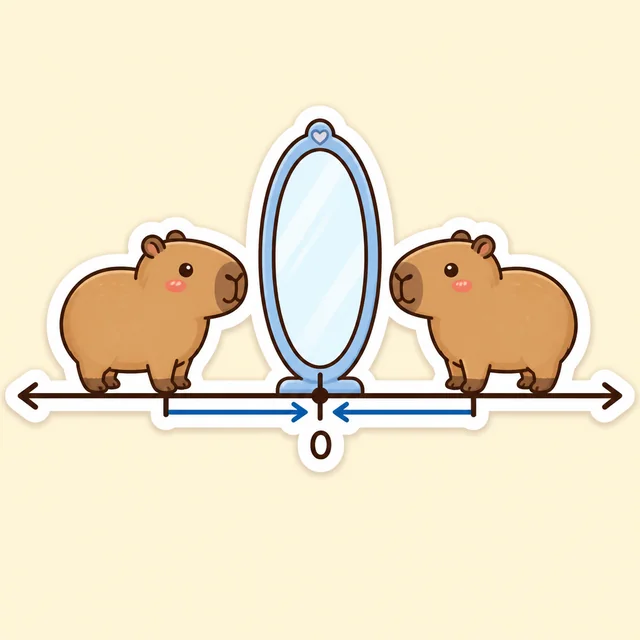
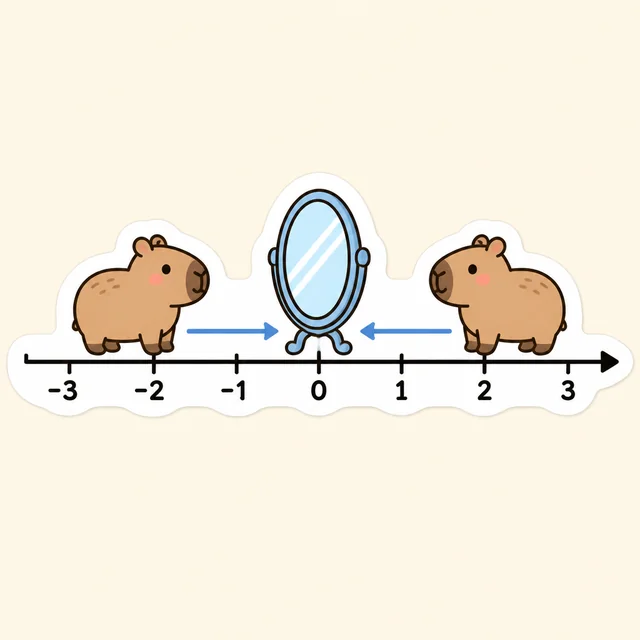
fix: 1-1-1 數線箭頭規則與 1-1-2 六張插圖依重點性質換道具
- 數線只在正向那端畫箭頭：那是「標示正向」不是「無限延伸」。
  兩節的 canvas.js 本來就寫對，錯的一直是插圖——1-1-1 重生
  capybara_opposite／capybara_summary（兩端都有箭頭）與
  capybara_distance（兩端都沒有），capybara_numberline 本來就對故未動
- 1-1-2 六張原本全是「直立溫度計疊箭頭」且無刻度，意義不明；
  temp_laws 更把要教的「交換律結果相同」畫成兩支液面不一樣高。
  根因是重點 2/4/5 本質為符號操作（本文「括號」31 次、「絕對值」30 次，
  而「溫度」19 次幾乎全在重點 3），硬畫成溫度計讀不出意義
- 改為保留漫畫決定的場景與角色、只依重點性質換道具：位置類（1/3/6）
  用水平溫度刻度條，符號類改用店裡真會發生的事——甜筒換順序疊球、
  收據整組取消翻正負號、溫差錶只顯示偏離 0 度多遠
- 畫面數字全部對照過該重點的兩題與互動卡預設，避開開發約束 29 的撞題
- 1-1-2 改用 q75：水彩紙紋屬高頻紋理，實測省 39%、色差 3.6～3.9/255，
  3 倍放大下刻度數字與 q85 無差別（上一輪誤判成平面用了 q85）
- agents.md：新增開發約束 34（數線箭頭）、擴充 33（用實心圓點錨定
  端點到刻度，空白處錨不住）、釐清 8（水彩＋動漫走 q75）、階段二十一

Changed region(s): [[0.0, 0.1875, 1.0, 0.75]]

diff --git a/materials/1-1-2/index.html b/materials/1-1-2/index.html
@@ -103,7 +103,7 @@
               </li>
             </ul>
             <div class="illustration-container">
-              <img src="temp_add.webp" alt="日式動漫插圖：冰淇淋店員手放在冷凍櫃的溫度旋鈕上，旁邊的溫度計中央有一條 0 度線、上方是紅色下方是藍色；兩支紅色向下箭頭首尾相接，從 0 度線一路降到藍色區深處，灰虎斑貓在旁邊冷得發抖" class="illustration" loading="lazy">
+              <img src="temp_add.webp" alt="日式動漫插圖：冰淇淋店牆上掛著一條水平溫度刻度條，等距標著 -8 到 6、只有右端有箭頭標示正方向；刻度上 0 是綠點、-2 是空心白點、-6 是藍點，上方兩段向左的跳躍弧線首尾相接，第一段由 0 跳到 -2、第二段由 -2 跳到 -6，第二段的跨距剛好是第一段的兩倍；店員一手扶著冷凍櫃抬頭看，灰虎斑貓坐在腳邊" class="illustration" loading="lazy">
             </div>
           </div>
 
@@ -233,7 +233,7 @@
               </li>
             </ul>
             <div class="illustration-container">
-              <img src="temp_laws.webp" alt="日式動漫插圖：兩支並排的溫度計各有一條 0 度線——左邊那支先降一大段再降一小段，右邊那支先降一小段再降一大段，兩支最後的液面停在完全相同的高度，中間畫著等號，店員比出大拇指" class="illustration" loading="lazy">
+              <img src="cone_swap.webp" alt="日式動漫插圖：木檯面上並排兩支同樣大小的甜筒，左邊那支由下往上先疊 2 球草莓再疊 3 球抹茶，右邊那支由下往上先疊 3 球抹茶再疊 2 球草莓，兩支各 5 球；一條水平虛線同時擦過兩疊的最頂端，顯示兩支一樣高，中間牆上畫著等號，店員比出大拇指" class="illustration" loading="lazy">
             </div>
           </div>
 
@@ -370,7 +370,7 @@
               </li>
             </ul>
             <div class="illustration-container">
-              <img src="temp_subtract.webp" alt="日式動漫插圖：兩支並排的溫度計，左邊那支的紅色液柱高於 0 度線、右邊那支的藍色液柱低於 0 度線，中間一條黃色捲尺垂直量出兩個溫度之間的差距，店員拿著寫字板指著捲尺" class="illustration" loading="lazy">
+              <img src="temp_subtract.webp" alt="日式動漫插圖：牆上的水平溫度刻度條等距標著 -8 到 6、只有右端有箭頭標示正方向；藍點標在原來溫度 -4、紅點標在最後溫度 2，一支橘色箭頭從藍點指向紅點、跨過三格；店員拿著寫字板指著箭頭，灰虎斑貓在旁邊抬頭看" class="illustration" loading="lazy">
             </div>
           </div>
 
@@ -510,7 +510,7 @@
               </li>
             </ul>
             <div class="illustration-container">
-              <img src="temp_bracket.webp" alt="日式動漫插圖：店員舉著一張指示卡，卡上左邊是一個減號加一組括號，括號裡第一支箭頭向上、第二支向下；等號右邊是同樣那兩支箭頭但沒有括號，方向全部相反——第一支向下、第二支向上，灰虎斑貓從卡片下緣探出頭" class="illustration" loading="lazy">
+              <img src="order_cancel.webp" alt="日式動漫插圖：店員舉著一張收據，上半部的兩筆金額 +30 與 -12 被一個方框圈在一起、方框左邊有一個大減號，並蓋上一枚紅色圓形印章表示整組取消；橫線下方同樣那兩筆再列一次，但符號全部相反成 -30 與 +12，而且沒有方框；灰虎斑貓從檯面邊緣探出頭" class="illustration" loading="lazy">
             </div>
           </div>
 
@@ -644,7 +644,7 @@
               </li>
             </ul>
             <div class="illustration-container">
-              <img src="temp_absolute.webp" alt="日式動漫插圖：牆上一支溫度計的中央有一條 0 度線，上方標著一個紅點、下方標著一個藍點，店員兩手拉著黃色捲尺，量出兩點各自到 0 度線的距離完全一樣長" class="illustration" loading="lazy">
+              <img src="gauge_absolute.webp" alt="日式動漫插圖：牆上一個圓形的冷凍櫃溫差錶，錶面刻度只有 0、2、4、6、8 五個數字、沒有任何負號，指針指在 4；錶下掛著 -4 與 +4 兩張紙牌，各拉一條線連到錶面上同一格 4，表示兩個溫度偏離 0 度一樣遠；店員指著指針，灰虎斑貓抬頭看" class="illustration" loading="lazy">
             </div>
           </div>
 
@@ -780,7 +780,7 @@
               </li>
             </ul>
             <div class="illustration-container">
-              <img src="temp_midpoint.webp" alt="日式動漫插圖：牆上的刻度條上方標著一個紅點、下方標著一個藍點，正中間一顆發光的星星標出中點；右側一條捲尺與兩個括號標出上下兩段完全一樣長，店員指著中間那顆星星" class="illustration" loading="lazy">
+              <img src="temp_midpoint.webp" alt="日式動漫插圖：牆上的水平溫度刻度條等距標著 -8 到 6、只有右端有箭頭標示正方向；紅點標在 -6、藍點標在 2，上方一條黃色捲尺橫跨這兩點；-2 的位置有一顆發亮的金色星星標出中點，下方兩個等長的括號分別涵蓋 -6 到 -2 與 -2 到 2；店員指著星星，灰虎斑貓抬頭看" class="illustration" loading="lazy">
             </div>
           </div>
 

diff --git a/materials/1-1-1/index.html b/materials/1-1-1/index.html
@@ -444,7 +444,7 @@
               <li><strong>特別規定</strong>：\(0\) 位於原點，與原點距離為 0。規定 <strong>\(0\) 的相反數是 \(0\)</strong>。</li>
             </ul>
             <div class="illustration-container">
-              <img src="capybara_opposite.webp" alt="水豚插圖：數線中央的 0 立著一面鏡子，左右兩側各站一隻水豚，兩隻到 0 的距離完全相同，兩支等長的箭頭分別從各自的位置指回 0" class="illustration" loading="lazy">
+              <img src="capybara_opposite.webp" alt="水豚插圖：一條數線標著 -3 到 3，只有右端有箭頭標示正方向；0 的位置立著一面鏡子，一隻水豚站在 -2、另一隻站在 2，兩支等長的藍色箭頭分別從各自的位置指回 0" class="illustration" loading="lazy">
             </div>
           </div>
 
@@ -565,7 +565,7 @@
               </li>
             </ul>
             <div class="illustration-container">
-              <img src="capybara_distance.webp" alt="水豚插圖：數線上兩隻水豚分別站在原點 0 的兩側，一條黃色捲尺沿著數線拉直，兩端各接著一隻水豚，量出兩點之間的距離" class="illustration" loading="lazy">
+              <img src="capybara_distance.webp" alt="水豚插圖：一條數線標著 -3 到 3，只有右端有箭頭標示正方向；兩隻水豚分別站在 -3 與 3，一條黃色捲尺沿著數線拉直，兩端各由一隻水豚拉著，量出兩點之間的距離" class="illustration" loading="lazy">
             </div>
           </div>
 
@@ -683,7 +683,7 @@
               <p>在日常生活中，我們經常用負數來記錄寒冷的溫度。例如課堂開始提到的<strong>義式冰淇淋 (Gelato)</strong>，為了維持最佳的綿密口感，展示櫃與存放溫度必須嚴格控制在 <strong>\(-25^\circ\text{C} \sim -18^\circ\text{C}\)</strong> 之間，而食用時最佳的溫度則在 <strong>\(-15^\circ\text{C} \sim -12^\circ\text{C}\)</strong>。</p>
               <p>這裡的「\(-25^\circ\text{C}\)」比「\(-15^\circ\text{C}\)」更冷。如果我們用絕對值來看：\(|-25| = 25\)，\(|-15| = 15\)。\(25 > 15\) 代表 \(-25\) 離 \(0\) 度更遙遠，所以其數值更小，也就是溫度更低！</p>
               <div class="illustration-container">
-                <img src="capybara_summary.webp" alt="水豚插圖：水豚坐在數線上開心地吃著三球冰淇淋，四周漂浮著本節用到的工具——溫度計、鏡子與捲尺" class="illustration" loading="lazy">
+                <img src="capybara_summary.webp" alt="水豚插圖：水豚坐在數線上開心地吃著三球冰淇淋，數線只有右端有箭頭標示正方向；四周漂浮著本節用到的工具——溫度計、鏡子與捲尺" class="illustration" loading="lazy">
               </div>
             </div>
           </div>

diff --git a/agents.md b/agents.md
@@ -37,6 +37,8 @@
 
 - [x] 階段二十：依〈開發約束〉28 稽核第一冊全部 66 張插圖（不含 11 張漫畫），逐張對圖判讀。重生 9 張：工具形狀產生不了畫面上結果的 4 張（`1-3-2` 的天平兩盤皆空又被手按住、天平右盤空著卻顯示平衡、滾壓機「壓」出圓片；`1-2-2` 兩齒輪沒咬合且懸空無軸）、數量與比例對不上宣稱的 5 張（`1-2-3` 左塔實為 6 等分使 3/4＝6/8 不成立、`1-1-4` 指數塔畫成線性堆疊、`1-1-4` 十倍寬實測只有 1:1.9:2.5:4.7、`1-2-1` 三盤數量不等、`1-2-4` 外層 3×3 內層卻 4×4）；另修 17 處 alt 與畫面不符。同輪把 `1-1-1`、`1-1-2` 兩節 12 張舊世代插圖整批重畫——`1-1-2` 原本 6 張裡 5 張內容有誤（混入 ∫／Σ／π 與偽公式、畫的是別的重點、數線沒有 0 與負數），`1-1-1` 全節更是一張負數都沒出現過。新主軸：`1-1-1` 數線＋溫度計（水豚貼紙風）、`1-1-2` 溫度計（水彩日式動漫風，角色照該節漫畫寫死）。規則收進〈開發約束〉32、33
 
+- [x] 階段二十一：`1-1-1`／`1-1-2` 插圖的數線與道具修正——數線箭頭規則釐清為「只在正向那端」（`capybara_opposite`／`capybara_summary` 兩端都有箭頭、`capybara_distance` 兩端都沒有，共重生 3 張；`capybara_numberline` 本來就對）。`1-1-2` 六張插圖原本全是「直立溫度計疊箭頭」且無刻度，`temp_laws` 更把「交換律結果相同」畫成兩支液面不一樣高；改為**依重點性質換道具**——位置類（重點 1、3、6）用水平溫度刻度條，符號類改用店裡真會發生的事（重點 2 兩支甜筒換順序疊球、重點 4 收據整組取消翻正負號、重點 5 溫差錶只顯示偏離 0 度多遠）。規則收進〈開發約束〉34，並擴充 33、釐清 8
+
 > 目前課程進度：58 節中 `1-1-1`、`1-1-2`、`1-1-3`、`1-1-4`、`1-2-1`、`1-2-2`、`1-2-3`、`1-2-4`、`1-3-1`、`1-3-2`、`1-3-3` 完成（第一冊全冊完成），其餘 47 節為佔位頁。
 
 ## 資料夾結構
@@ -145,6 +147,7 @@ teaching-web/
    - **高頻紋理風格**（復古印刷網點、水彩紙紋、黑板粉筆紋等）用 **q75**；2026-08-20 實測 q75 比 q85 少 32% 體積，平均色差僅約 1%，且差異全落在不帶資訊的紙紋／網點雜訊上。再往下降（q70、q65）體積幾乎不再變小，畫質卻繼續掉，所以 **q75 是轉折點，不要再往下調**
    - 只剩 WebP、找不到原始 PNG 時可以直接重壓：實測 q85 WebP 再壓 q75 的二次失真（平均差 3.86/255）比從 PNG 單次壓 q75（4.79/255）還小
    - **8-bit 像素風算高頻紋理**（dithering 的棋盤點跟印刷網點同一類），插圖用 **q75**；2026-08-20 實測省 31%、2 倍放大下與 q85 看不出差別
+   - **畫風同時符合兩級時以「有沒有紙紋」為準，走 q75**：`1-1-2` 的「水彩日式動漫」既像平面大色塊、又帶水彩紙紋，2026-09-04 那輪判成平面用了 q85。2026-09-05 實測同樣 6 張改 q75 省 **39%**（569KB → 347KB）、平均色差僅 3.6～3.9/255，**連刻度條上的 `-8`／`-6` 數字在 3 倍放大下都看不出差別**。水彩、粉彩、色鉛筆這類「看得到紙的纖維」的畫風一律歸高頻紋理
    - **但漫畫一律維持 q85**：漫畫上有後製排入的中文對白，字的邊緣禁不起再壓；插圖沒有文字才可以降
 9. **CSS Grid 一律不要留 min-content 底線**：`1fr` 的最小值是 min-content，卡片裡只要有一段不能斷行的內容（MathJax 算式、長數字按鈕）整欄就會被撐破外框，而 `.concept-section`／`body` 是 `overflow: hidden`，超出的部分直接被裁掉。欄寬固定寫 `minmax(0, 1fr)`，有最小寬度需求就寫 `minmax(min(300px, 100%), 1fr)`
 10. **flex 容器不要用 `align-items: center` 裝比它寬的內容**：溢出會左右各分一半，左邊那一半連橫向捲動都捲不到，等於內容消失。改用 `align-items: stretch`，需要置中的元素自己加 `margin-inline: auto`
@@ -170,7 +173,9 @@ teaching-web/
 30. **把行內算式改寫成顯示型時，分數維持 `\frac`，不要改用 `\tfrac`**：`\frac` 在顯示型是 displaystyle（大分數），換成 `\tfrac` 會縮成跟行內一樣的小分數——寬度確實省了，但同一頁其他顯示型算式的分數還是大的，兩者並排一眼看得出不一致（`1-2-3` 實測 `\tfrac` 的 `mjx-mfrac` 高 27.3px，同頁 `.explanation-card` 裡的顯示型算式是 47.6px）。要省寬度就多拆一行，不要改分數的大小。**判斷放不放得下不要用眼睛猜**：把 `\frac` 版本塞進一個寬度等於目標容器 `clientWidth` 的隱藏 div 裡 `MathJax.typesetPromise()` 一次，比對 `scrollWidth` 與 `clientWidth`，相等就是放得下（`1-2-3`／`1-2-4` 實測 229px 容器內容剛好 229，本來就不必動分數）。
 31. **算式溢出要掃的容器有四種，別只掃前兩種**：`.value-display`（階段十一、十五掃過）、`.explanation-desc`／`.explanation-box`（階段十八掃過）、**`.visual-feedback`（互動卡的回饋區）**、**`.summary-card`／`.context-story`（核心回顧）**。後兩者到 2026-09-04 才第一次掃，全冊抓到 7 條，所以在那之前的「第一冊算式溢出歸零」都不涵蓋它們。兩者的表現不同：`.visual-feedback` 有 `overflow-x: auto`，溢出會冒出捲軸（不會被裁）；`.summary-card` 是 `overflow: visible`，算式會直接壓出卡片邊界（`1-3-1` 實測 32px）。**都不是內容消失，但都要修**——捲軸比它要捲的內容還顯眼，壓出邊界則會蓋到卡片外。修法是共用的 `wbrEq()`（開發約束 24），核心回顧那種手寫在 HTML 裡的則自己以 `<wbr>` 接段。**`.visual-feedback` 與 `.value-display` 一樣，只掃初始狀態會漏掉一半**：`1-2-3` 重點 6 那兩條要點到「果汁」「圖書館」按鈕才出現、`1-3-1` 重點 4 那條要切到「15 − (2/3)x」才出現，初始狀態全都乾淨。**另外，畫面上的中文說明不要包進 `\text{}`**：`1-3-3` 重點 7 的「（乙沒有比甲快，情境不成立）」原本包在 `\text{}` 裡送給 MathJax，變成不折行的 `mjx-container`，414px 下撐出 24px 捲軸；那不是算式，直接當純文字輸出就換得了行。
 32. **整節重畫插圖前，先看該節的「暖身漫畫」與「內文情境詞頻」再定主題**：〈跨專案依賴〉只規定「漫畫要對齊插圖」，反方向沒寫——於是 2026-09-05 重畫 `1-1-2` 時，我自己挑了「大樓電梯樓層」當主軸，六張生完才發現該節漫畫是「咖啡廳冷凍櫃調溫」、內文「溫度」出現 20 次而「電梯」只有 2 次，等於憑空造出第三個情境，角色（黑髮制服女學生 vs 漫畫的棕髮圍裙店員＋灰貓）也對不上，**16 張候選整批作廢**。作法是動筆前先 `grep -o` 數內文的情境詞（溫度／樓層／海拔／收支……）取最高的那個當主軸，再把漫畫的角色**逐項抄進提示**（髮色髮型、服裝、圍裙顏色、動物的花色與項圈配件）。順帶：**改完圖要回頭 grep 內文有沒有描述舊插圖的句子**（「如上圖的拔河」這類），本次查過確認為零才敢換。
-33. **生圖提示要用「可驗證的幾何」描述關係，不要用關係詞；要數的東西壓到每組 ≤8、組數 ≤3**：gpt-image-2 抓不到 interlocking／ten times wider／six of eight 這類詞，全部第一輪就失敗——齒輪畫成齒尖對齊還隔著空隙、十倍寬只做到 4~5 倍、8 等分取 6 畫成取 7。改寫成「一齒插進對方兩齒之間的凹縫、兩個輪廓互相重疊、絕無空隙」「小平台幾乎只比中間的電梯管寬一點，十個並排才等於下層」「那兩塊素色相鄰、合起來剛好等於另一個塔的那一塊素色四分之一」之後全部一次命中。數量同理：`1,2,4,8` 四座塔連兩輪畫成 `1,3,5,9`／`1,3,6,10`，改成 `2,4,8` 三座立刻正確——這是〈跨專案依賴〉「不超過 9」的下一層，**組數也要少**。需要量出「兩段等長」「中點」這類關係時 `--n 3`，兩張往往都差幾個百分點。反過來，**數線標負號意外地穩**（`-3 -2 -1 0 1 2 3` 三張全對），不必迴避。
+33. **生圖提示要用「可驗證的幾何」描述關係，不要用關係詞；要數的東西壓到每組 ≤8、組數 ≤3**：gpt-image-2 抓不到 interlocking／ten times wider／six of eight 這類詞，全部第一輪就失敗——齒輪畫成齒尖對齊還隔著空隙、十倍寬只做到 4~5 倍、8 等分取 6 畫成取 7。改寫成「一齒插進對方兩齒之間的凹縫、兩個輪廓互相重疊、絕無空隙」「小平台幾乎只比中間的電梯管寬一點，十個並排才等於下層」「那兩塊素色相鄰、合起來剛好等於另一個塔的那一塊素色四分之一」之後全部一次命中。數量同理：`1,2,4,8` 四座塔連兩輪畫成 `1,3,5,9`／`1,3,6,10`，改成 `2,4,8` 三座立刻正確——這是〈跨專案依賴〉「不超過 9」的下一層，**組數也要少**。需要量出「兩段等長」「中點」這類關係時 `--n 3`，兩張往往都差幾個百分點。反過來，**數線標負號意外地穩**（`-3 -2 -1 0 1 2 3` 三張全對），不必迴避。**要讓箭頭／弧線的端點落在「指定的那一格刻度」上，先在那幾格畫實心圓點，再要求線去接圓點**：`1-1-2` 重點 1 的兩段跳躍弧線連三輪十張都把端點畫在刻度之間（起跳點固定落在 `0` 右邊 0.5～0.8 格），補上「虛線垂足」「八格等距」都沒救。但**同一批的 `temp_change`／`temp_midpoint`，紅點藍點卻每張都精準落在刻度上**——差別在於圓點是一個**畫得出來的實體物件**，而「刻度上方的空白處」不是。改寫成「`0` 上有綠點、`-2` 上有空心白點、`-6` 上有藍點，第一段弧線由綠點連到白點、第二段由白點連到藍點」，一輪四張就有兩張三點全中（實測弧長 212px : 456px，對上刻度的 215px : 453px）。同理，要表達「兩點的距離」「中點」時也先把兩端點畫成圓點再拉捲尺。
+34. **數線一律只在正向那端畫箭頭，負向那端平切**：數線的定義是「在直線上取一點為原點，訂定正向與單位長度」，那個箭頭是用來**標示正向**的，不是用來表示「兩頭無限延伸」——所以兩端都畫箭頭是錯的，一端都不畫也是錯的。兩節的 `canvas.js` 本來就照這條寫（`1-1-2/canvas.js` 的數線繪製處留有註解 `Right arrow only, left is a flat end, per Taiwanese junior high definition`），**歷來出錯的都是插圖**：`1-1-1` 實測 `capybara_opposite`／`capybara_summary` 兩端都有箭頭、`capybara_distance` 兩端都沒有，同一頁的 canvas 與插圖互相矛盾。生圖提示要把它寫死成幾何（照〈開發約束〉33）：「The line has ONE arrowhead only, at its right end. The left end simply stops flat, square-cut, with absolutely no arrowhead there.」實測這樣寫十張全中。**溫度刻度條、量尺這類「本質上是數線」的道具同樣適用**
+
 
 
 ## 跨專案依賴
